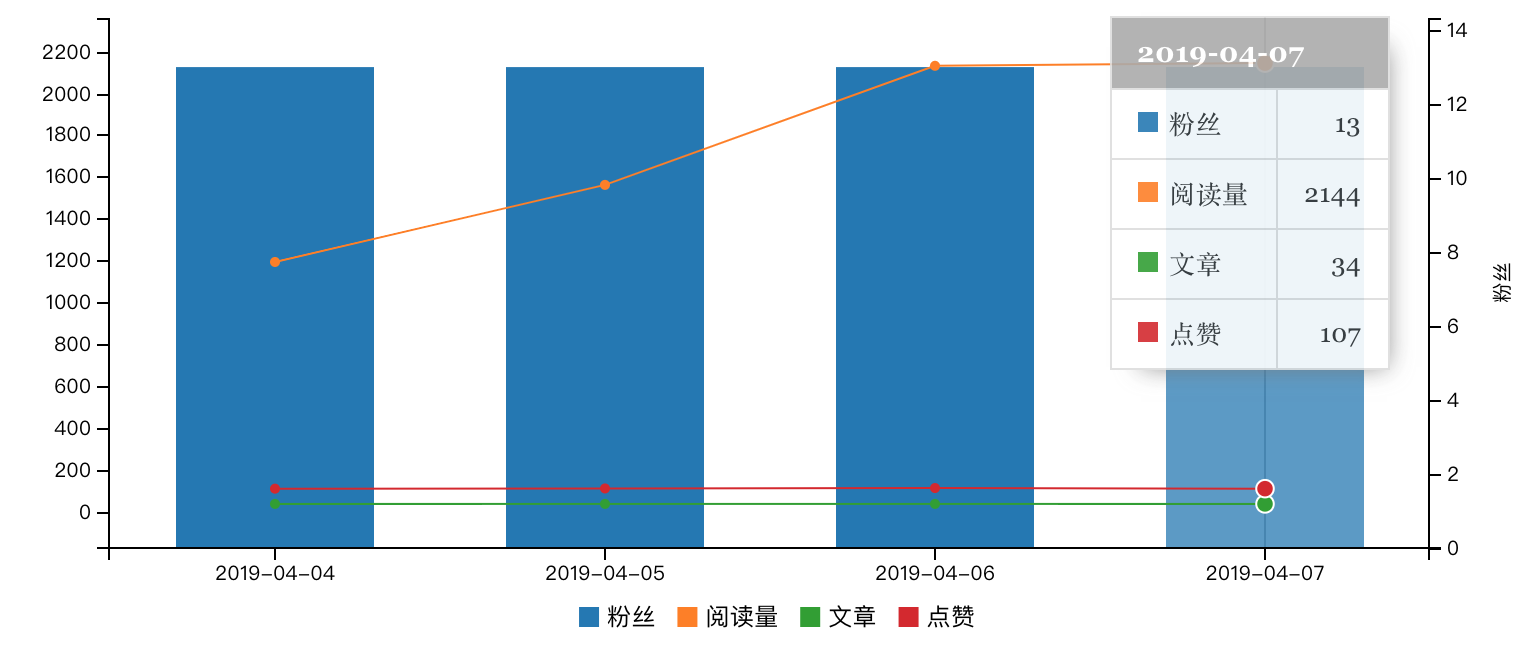
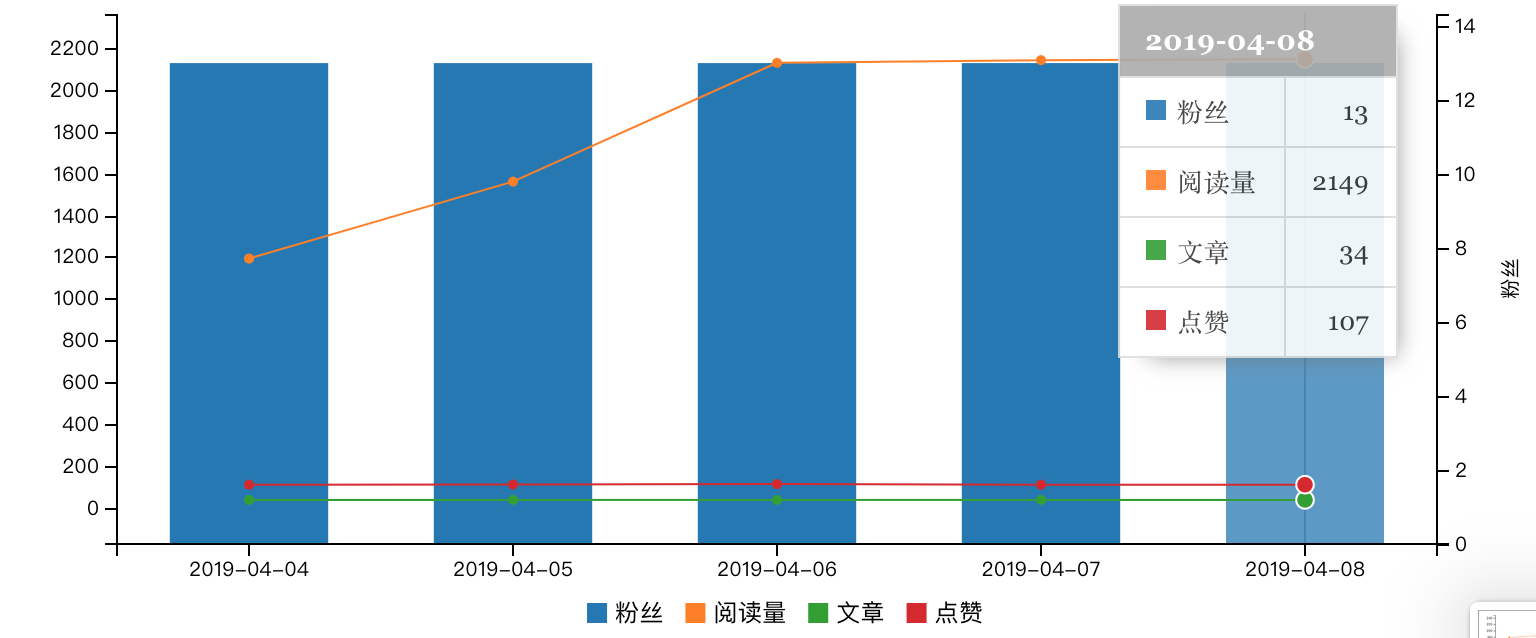
add statics of 0408

diff --git a/other/static.md b/other/static.md
@@ -10,8 +10,8 @@
         "x": "x",
         "columns": [
             ["x","2019-04-01","2019-04-02","2019-04-03","2019-04-04","2019-04-05","2019-04-06","2019-04-07"],
-            ["粉丝",58,60,59,69,68,68,68],
-            ["阅读",13809,14757,15707,18521,19268,20532,21328]
+            ["粉丝",58,60,59,69,68,68,68,69],
+            ["阅读",13809,14757,15707,18521,19268,20532,21328,22418]
         ],
         "axes": {
             "粉丝": "y2"
@@ -51,12 +51,12 @@
     "data": {
         "x": "x",
         "columns": [
-            ["x","2019-04-01","2019-04-02","2019-04-03","2019-04-04","2019-04-05","2019-04-06","2019-04-07"],
-            ["粉丝",8,8,8,9,9,9,9],
-            ["阅读量",3508,3645,3650,4356,4528,4864,5276],
-            ["手记",32,33,34,36,38,39,40],
-            ["推荐",36,36,37,39,41,42,48],
-            ["积分",107,118,118,130,130,141,152]
+            ["x","2019-04-01","2019-04-02","2019-04-03","2019-04-04","2019-04-05","2019-04-06","2019-04-07","2019-04-08"],
+            ["粉丝",8,8,8,9,9,9,9,9],
+            ["阅读量",3508,3645,3650,4356,4528,4864,5276,5593],
+            ["手记",32,33,34,36,38,39,40,41],
+            ["推荐",36,36,37,39,41,42,48,49],
+            ["积分",107,118,118,130,130,141,152,173]
         ],
         "axes": {
             "粉丝": "y2"
@@ -94,12 +94,12 @@
     "data": {
         "x": "x",
         "columns": [
-            ["x","2019-04-01","2019-04-02","2019-04-03","2019-04-04","2019-04-05","2019-04-06","2019-04-07"],
-            ["粉丝",7,7,6,7,6,5,5],
-            ["阅读量",343,335,342,358,374,443,468],
-            ["文章",33,34,35,37,39,40,41],
-            ["喜欢",57,58,59,60,62,64,65],
-            ["简书钻",27,28,28,9,9,9,10]
+            ["x","2019-04-01","2019-04-02","2019-04-03","2019-04-04","2019-04-05","2019-04-06","2019-04-07","2019-04-08"],
+            ["粉丝",7,7,6,7,6,5,5,5],
+            ["阅读量",343,335,342,358,374,443,468,512],
+            ["文章",33,34,35,37,39,40,41,42],
+            ["喜欢",57,58,59,60,62,64,65,67],
+            ["简书钻",27,28,28,9,9,9,10,10]
         ],
         "axes": {
             "粉丝": "y2"
@@ -137,12 +137,12 @@
     "data": {
         "x": "x",
         "columns": [
-            ["x","2019-04-01","2019-04-02","2019-04-03","2019-04-04","2019-04-05","2019-04-06","2019-04-07"],
-            ["粉丝",1,1,1,1,1,1,1],
-            ["访问量",1565,1634,1665,1705,1723,1769,1829],
-            ["原创",31,32,33,34,36,38,39],
-            ["喜欢",31,32,33,34,36,37,37],
-            ["积分",353,364,376,397,419,430,440]
+            ["x","2019-04-01","2019-04-02","2019-04-03","2019-04-04","2019-04-05","2019-04-06","2019-04-07","2019-04-08"],
+            ["粉丝",1,1,1,1,1,1,1,1],
+            ["访问量",1565,1634,1665,1705,1723,1769,1829,1867],
+            ["原创",31,32,33,34,36,38,39,40],
+            ["喜欢",31,32,33,34,36,37,37,38],
+            ["积分",353,364,376,397,419,430,440,450]
         ],
         "axes": {
             "粉丝": "y2"
@@ -180,11 +180,11 @@
     "data": {
         "x": "x",
         "columns": [
-            ["x","2019-04-01","2019-04-02","2019-04-03","2019-04-04","2019-04-05","2019-04-06","2019-04-07"],
-            ["粉丝",17,17,17,18,18,18,18],
-            ["阅读数",3889,4096,4207,4388,4411,4435,4471],
-            ["随笔",31,32,33,34,36,38,39],
-            ["评论数",16,16,16,16,16,16,16]
+            ["x","2019-04-01","2019-04-02","2019-04-03","2019-04-04","2019-04-05","2019-04-06","2019-04-07","2019-04-08"],
+            ["粉丝",17,17,17,18,18,18,18,18],
+            ["阅读数",3889,4096,4207,4388,4411,4435,4471,4728],
+            ["随笔",31,32,33,34,36,38,39,41],
+            ["评论数",16,16,16,16,16,16,16,16]
         ],
         "axes": {
             "粉丝": "y2"
@@ -222,11 +222,11 @@
     "data": {
         "x": "x",
         "columns": [
-            ["x","2019-04-01","2019-04-02","2019-04-03","2019-04-04","2019-04-05","2019-04-06","2019-04-07"],
-            ["关注者",4,5,5,6,6,6,6],
-            ["阅读数",402,500,562,703,712,725,745],
-            ["原创",31,32,33,35,37,38,39],
-            ["点赞数",36,38,40,47,50,51,52]
+            ["x","2019-04-01","2019-04-02","2019-04-03","2019-04-04","2019-04-05","2019-04-06","2019-04-07","2019-04-08"],
+            ["关注者",4,5,5,6,6,6,6,6],
+            ["阅读数",402,500,562,703,712,725,745,766],
+            ["原创",31,32,33,35,37,38,39,40],
+            ["点赞数",36,38,40,47,50,51,52,56]
         ],
         "axes": {
             "关注者": "y2"
@@ -264,12 +264,12 @@
     "data": {
         "x": "x",
         "columns": [
-            ["x","2019-04-01","2019-04-02","2019-04-03","2019-04-04","2019-04-05","2019-04-06","2019-04-07"],
-            ["粉丝",1,1,1,1,1,1,1],
-            ["阅读量",1382,1483,1548,1676,1770,1891,2004],
-            ["文章",33,34,35,36,39,40,41],
-            ["点赞数",12,12,13,13,13,13,15],
-            ["声望",43,43,43,43,43,43,49]
+            ["x","2019-04-01","2019-04-02","2019-04-03","2019-04-04","2019-04-05","2019-04-06","2019-04-07","2019-04-08"],
+            ["粉丝",1,1,1,1,1,1,1,1],
+            ["阅读量",1382,1483,1548,1676,1770,1891,2004,2087],
+            ["文章",33,34,35,36,39,40,41,42],
+            ["点赞数",12,12,13,13,13,13,15,16],
+            ["声望",43,43,43,43,43,43,49,52]
         ],
         "axes": {
             "粉丝": "y2"
@@ -307,12 +307,12 @@
     "data": {
         "x": "x",
         "columns": [
-            ["x","2019-04-01","2019-04-02","2019-04-03","2019-04-04","2019-04-05","2019-04-06","2019-04-07"],
-            ["粉丝",12,13,13,13,13,13,13],
-            ["访问量",2496,2831,3490,3947,3993,4066,4174],
-            ["博文",33,34,35,37,39,40,41],
-            ["推荐",6,7,7,7,7,7,8],
-            ["积分",5,5,6,6,7,7,7]
+            ["x","2019-04-01","2019-04-02","2019-04-03","2019-04-04","2019-04-05","2019-04-06","2019-04-07","2019-04-08"],
+            ["粉丝",12,13,13,13,13,13,13,14],
+            ["访问量",2496,2831,3490,3947,3993,4066,4174,4391],
+            ["博文",33,34,35,37,39,40,41,42],
+            ["推荐",6,7,7,7,7,7,8,8],
+            ["积分",5,5,6,6,7,7,7,7]
         ],
         "axes": {
             "粉丝": "y2"
@@ -350,13 +350,13 @@
     "data": {
         "x": "x",
         "columns": [
-            ["x","2019-04-01","2019-04-02","2019-04-03","2019-04-04","2019-04-05","2019-04-06","2019-04-07"],
-            ["粉丝",1,1,1,1,1,2,2],
-            ["阅读量",179,184,190,196,196,208,217],
-            ["投稿",32,33,34,36,38,39,40],
-            ["点赞",32,33,34,36,38,38,39],
-            ["收藏",6,6,6,6,6,6,6],
-            ["投币",1,1,1,1,1,1,1]
+            ["x","2019-04-01","2019-04-02","2019-04-03","2019-04-04","2019-04-05","2019-04-06","2019-04-07","2019-04-08"],
+            ["粉丝",1,1,1,1,1,2,2,2],
+            ["阅读量",179,184,190,196,196,208,217,225],
+            ["投稿",32,33,34,36,38,39,40,41],
+            ["点赞",32,33,34,36,38,38,39,40],
+            ["收藏",6,6,6,6,6,6,6,7],
+            ["投币",1,1,1,1,1,1,1,1]
         ],
         "axes": {
             "粉丝": "y2"
@@ -394,11 +394,11 @@
     "data": {
         "x": "x",
         "columns": [
-            ["x","2019-04-04","2019-04-05","2019-04-06","2019-04-07"],
-            ["粉丝",13,13,13,13],
-            ["阅读量",1192,1561,2131,2144],
-            ["文章",34,34,34,34],
-            ["点赞",107,108,110,107]
+            ["x","2019-04-04","2019-04-05","2019-04-06","2019-04-07","2019-04-08"],
+            ["粉丝",13,13,13,13,13],
+            ["阅读量",1192,1561,2131,2144,2149],
+            ["文章",34,34,34,34,34],
+            ["点赞",107,108,110,107,107]
         ],
         "axes": {
             "粉丝": "y2"
